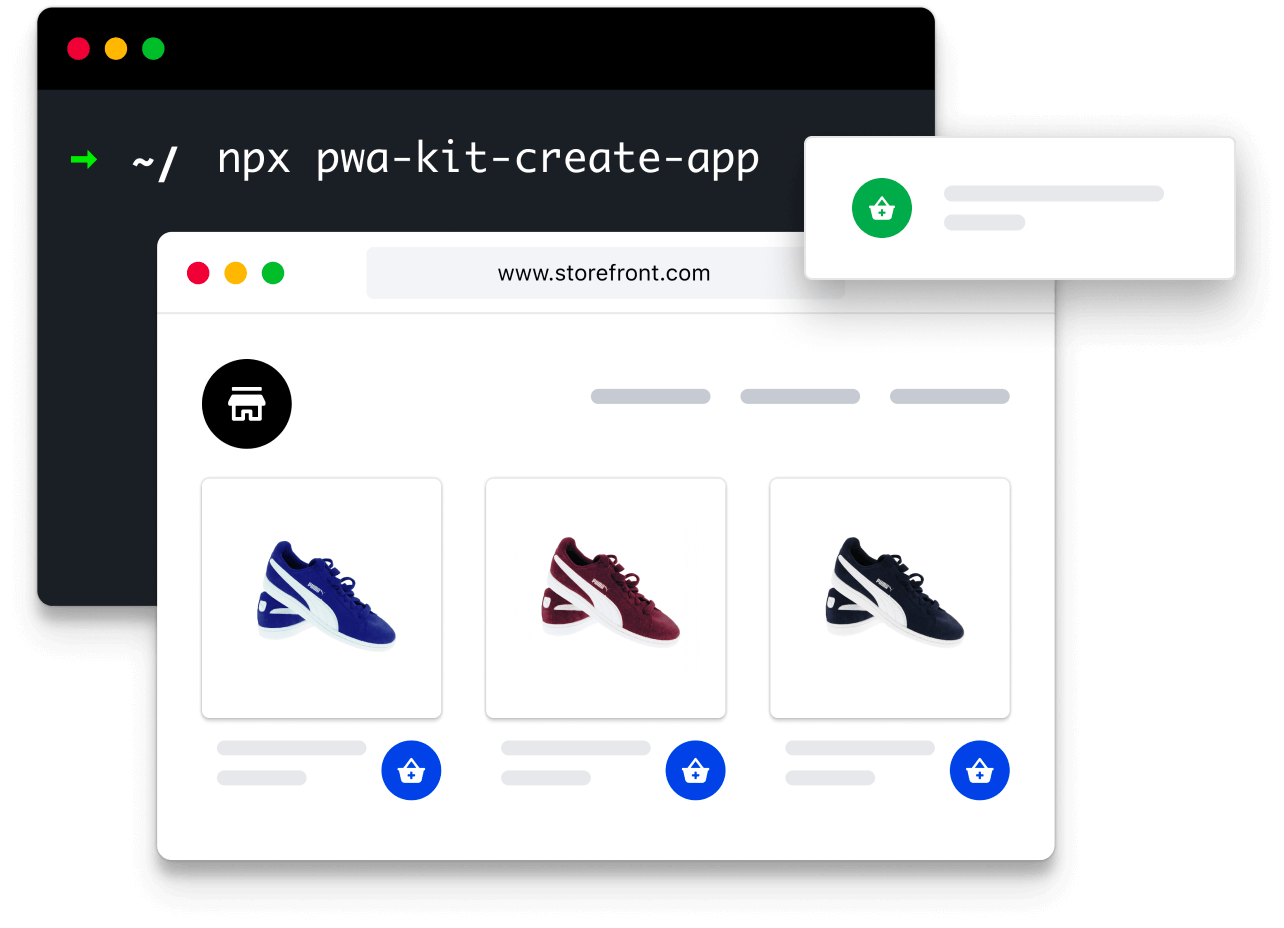
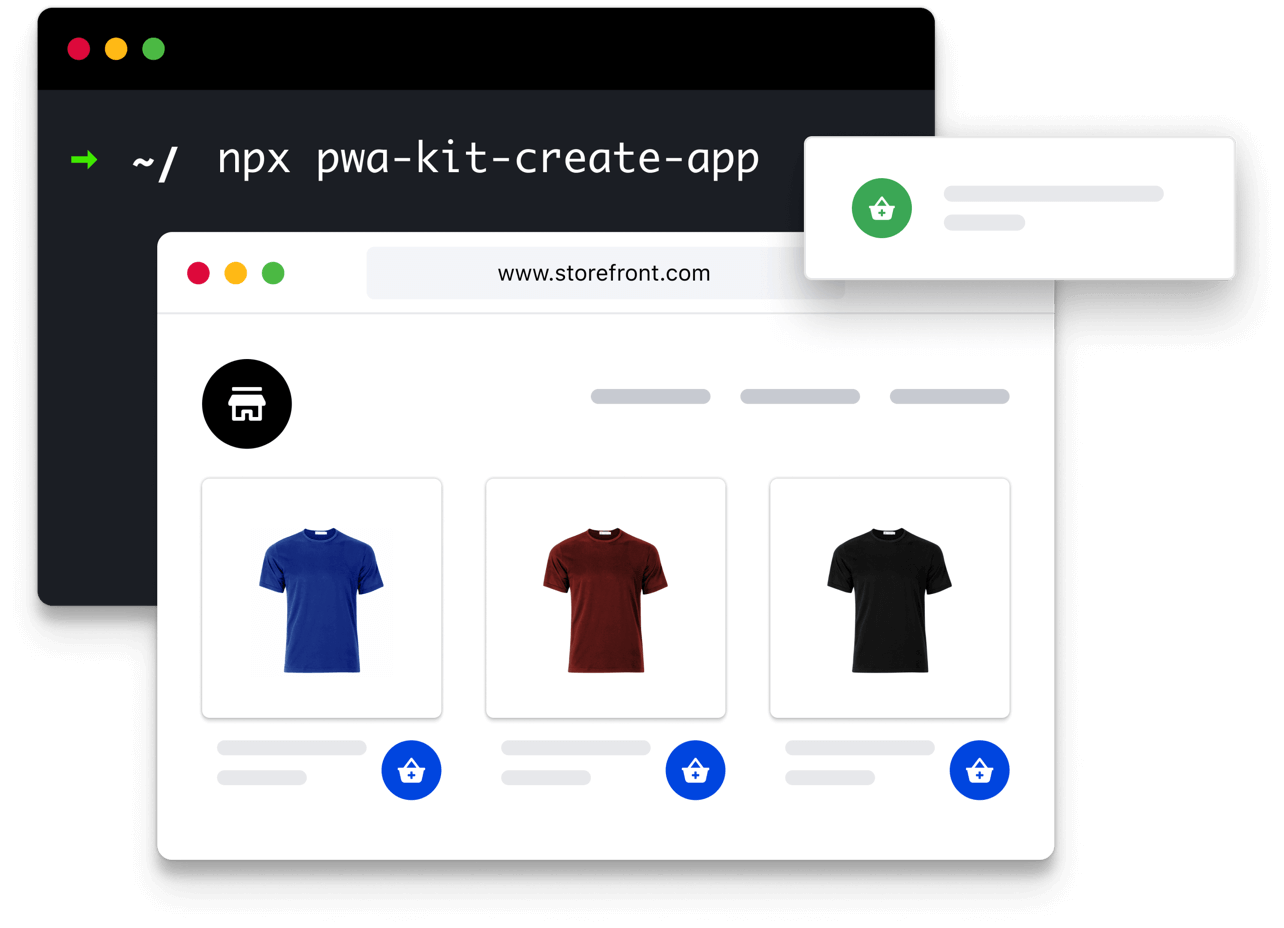
Minor edits to README (#251)
* Minor edits to README

* Minor edits to contributing and prepare for link updates to DSC

* Add emoji for all h2s

* Tweak language about starring the repo

* Replace hero image in Retail React App

* Update hero image URL

* Update reference to hero image to predictable URL

* Remove h3 emoji

diff --git a/README.md b/README.md
@@ -1,6 +1,6 @@
 <div align="center">
 
-  <h1>The Progressive Web App (PWA) Kit</h1>
+<h1>The Progressive Web App (PWA) Kit</h1>
 
 [![npm](https://img.shields.io/npm/v/pwa-kit-react-sdk.svg)](https://www.npmjs.com/package/pwa-kit-react-sdk)
 [![License](https://img.shields.io/github/license/SalesforceCommerceCloud/pwa-kit.svg)](https://github.com/SalesforceCommerceCloud/pwa-kit/blob/master/LICENSE)
@@ -13,12 +13,12 @@
 
 📖 [Read Docs](https://sfdc.co/pwa-kit) |
 🏖 [View Demo](https://pwa-kit.mobify-storefront.com/) |
-🚀 [Deploy in Seconds](https://runtime.commercecloud.com/) |
+🚀 [Deploy](https://runtime.commercecloud.com/) |
 ➕ [Contribute](https://github.com/SalesforceCommerceCloud/pwa-kit/blob/develop/CONTRIBUTING.md)
-<br/><br/>
+<br /><br />
 The PWA Kit is a storefront technology for headless commerce using Salesforce Commerce APIs and React. It provides front-end developers with a more flexible and agile approach to build and maintain modern shopping experiences.
 <br/><br/>
-<img alt="pwa-kit banner" src="https://pwa-kit.mobify-storefront.com/mobify/bundle/62/static/img/hero.png" style="width: 700px; height:auto;">
+<img alt="pwa-kit banner" src="https://raw.githubusercontent.com/SalesforceCommerceCloud/pwa-kit/develop/packages/pwa/app/static/img/hero.png" style="width: 700px; height:auto;">
 
 </div>
 
@@ -26,10 +26,10 @@ The PWA Kit is a storefront technology for headless commerce using Salesforce Co
 
 ## 🏄 Getting Started
 
-### ℹ Requirements
+### Requirements
 
-- Node `^12.x` or `^14.x`
-- npm `^6.14.4`
+-   Node `^12.x` or `^14.x`
+-   npm `^6.14.4`
 
 ### Create Your First Project
 
@@ -39,7 +39,7 @@ npx pwa-kit-create-app
 
 Enter your [sandbox configuration](https://developer.salesforce.com/docs/commerce/pwa-kit-managed-runtime/guide/getting-started.html#new-project).
 
-### Run The Project Locally
+### Run the Project Locally
 
 ```bash
 npm start
@@ -47,7 +47,11 @@ npm start
 
 ### Deploy to Managed Runtime
 
-Once your Runtime Admin is setup, run `npm run push -- -m "Message to help you recognize this bundle"` to deploy your project in as low as 60 seconds! Read the [docs](https://developer.salesforce.com/docs/commerce/pwa-kit-managed-runtime/guide/pushing-and-deploying-bundles.html) to learn more.
+```
+npm run push -- -m "Message to help you recognize this bundle"
+```
+
+**Important**: Access to the [Runtime Admin](https://runtime.commercecloud.com/) application is required to deploy bundles. To learn more, read our guide to [Pushing and Deploying Bundles](https://developer.salesforce.com/docs/commerce/pwa-kit-managed-runtime/guide/pushing-and-deploying-bundles.html).
 
 ## 🌍 Localization
 
@@ -59,16 +63,17 @@ The PWA Kit is licensed under a BSD 3-Clause license. See the [license](./LICENS
 
 ## ➕ Contribute
 
-Contributors are welcome! Refer to the [CONTRIBUTING](./CONTRIBUTING.md) guide to get started. If you liked pwa-kit, add a ⭐ on [GitHub Repo](https://github.com/SalesforceCommerceCloud/pwa-kit/)!
+Your contributions are welcome! Refer to the [CONTRIBUTING](./CONTRIBUTING.md) guide to get started. If you like `pwa-kit`, consider adding a ⭐ on the [GitHub Repo](https://github.com/SalesforceCommerceCloud/pwa-kit/). It helps other people discover PWA Kit!
 
 ## 📖 Documentation
 
-The full documentation for PWA Kit is hosted on the [Commerce Cloud Developer Center](https://developer.commercecloud.com/s/article/PWA-Kit).
+The full documentation for PWA Kit is hosted on the [Salesforce Developers](https://developer.salesforce.com/docs/commerce/pwa-kit-managed-runtime/overview) portal.
 
-### 🔖 Useful Links:
+### Useful Links:
 
-- [Getting Started](https://developer.commercecloud.com/s/article/Getting-Started-with-PWA-Kit)
-- [Pushing and Deploying Bundles](https://developer.commercecloud.com/s/article/Pushing-and-Deploying-Bundles)
-- [The Retail React App](https://developer.commercecloud.com/s/article/The-Retail-React-App)
-- [Rendering and Routing](https://developer.commercecloud.com/s/article/Rendering-and-Routing)
-- [Managed Runtime Infrastructure](https://developer.commercecloud.com/s/article/Managed-Runtime-Infrastructure)
+-   [Getting Started](https://developer.salesforce.com/docs/commerce/pwa-kit-managed-runtime/guide/getting-started.html)
+-   [Setting Up API Access](https://developer.salesforce.com/docs/commerce/pwa-kit-managed-runtime/guide/setting-up-api-access.html)
+-   [Configuration Options](https://developer.salesforce.com/docs/commerce/pwa-kit-managed-runtime/guide/configuration-options.html)
+-   [Pushing and Deploying Bundles](https://developer.salesforce.com/docs/commerce/pwa-kit-managed-runtime/guide/pushing-and-deploying-bundles.html)
+-   [The Retail React App](https://developer.salesforce.com/docs/commerce/pwa-kit-managed-runtime/guide/retail-react-app.html)
+-   [Proxying Requests](https://developer.salesforce.com/docs/commerce/pwa-kit-managed-runtime/guide/proxying-requests.html)
